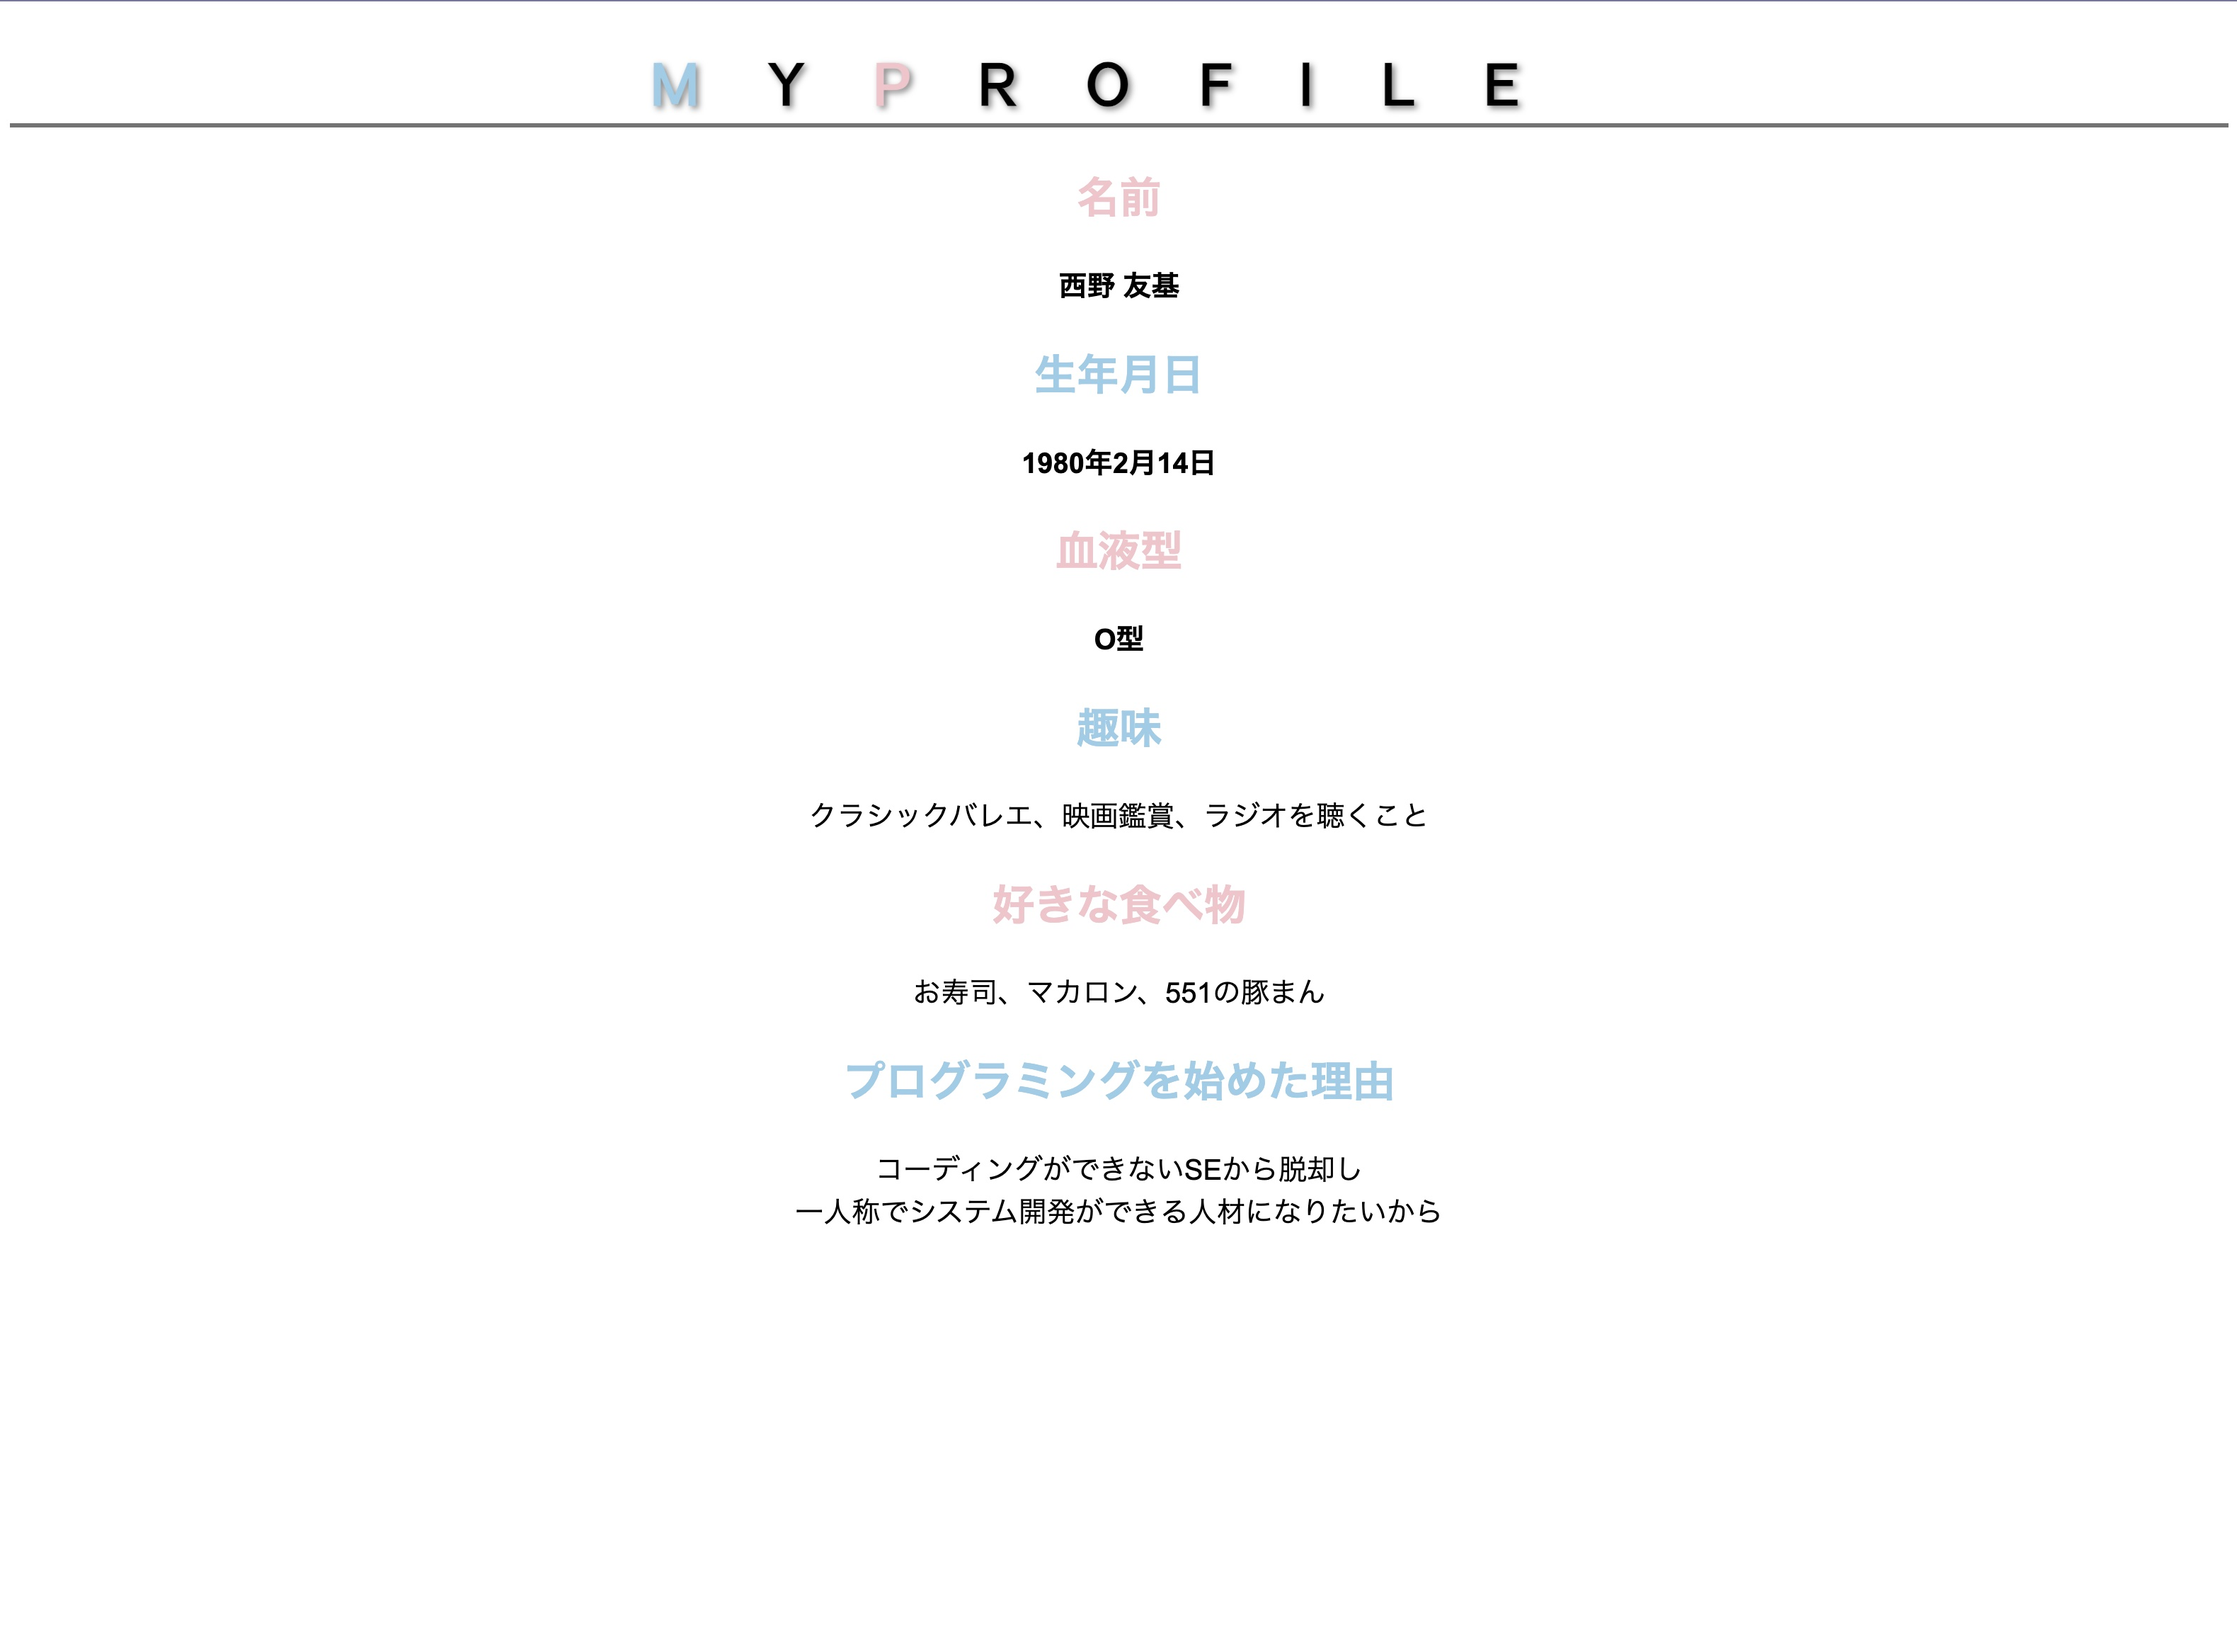
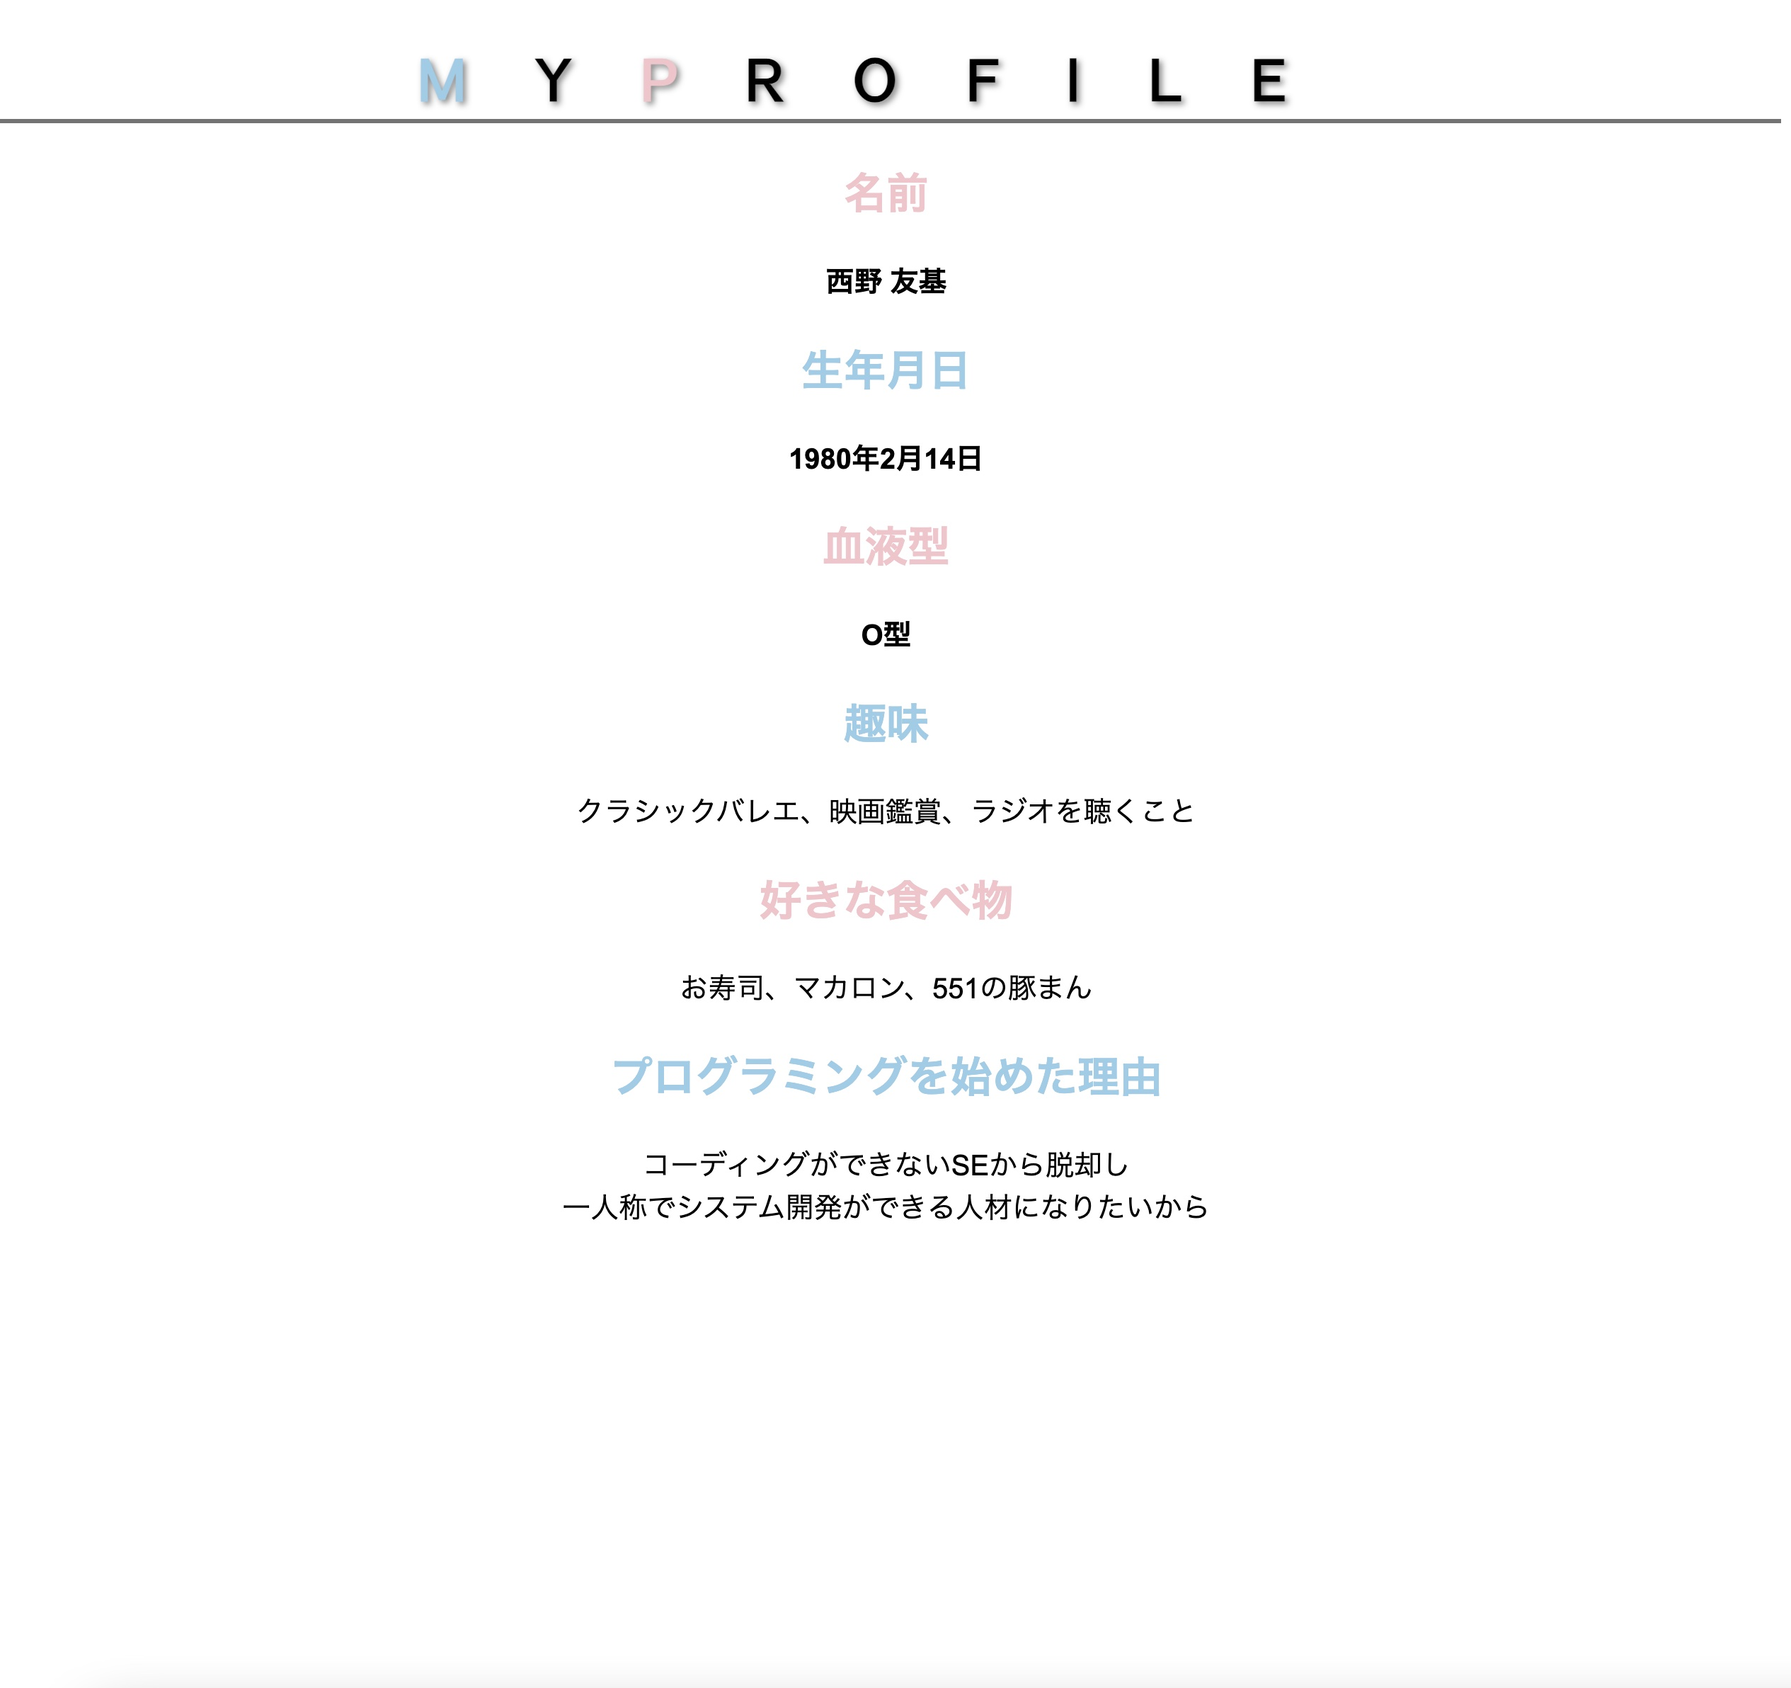
課題修正２

Changed region(s): [[0.3435, 0.1545, 0.6557, 0.7416], [0.0, 0.0309, 0.9992, 0.1236]]

diff --git a/MYPROFILE/kadai_014/style.css b/MYPROFILE/kadai_014/style.css
@@ -22,8 +22,8 @@ body {
 */
 h1 {
   font-family: 'Josefin Sans', sans-serif;
-  font-family: 'Open Sans', sans-serif;
-  font-family: 'Sawarabi Gothic', sans-serif;
+  /* font-family: 'Open Sans', sans-serif;
+  font-family: 'Sawarabi Gothic', sans-serif; */
   font-size: 40px;
   letter-spacing: 1.2em;
   text-shadow: 2px 2px 4px #888;
